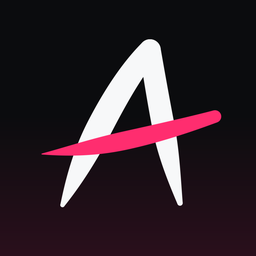
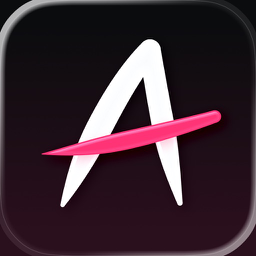
After Stories is live; rename rankmaster _build to build
- After Stories launched on the App Store (id 6815212070). Set appStoreId
  and appStoreUrl, remove comingSoon, swap the placeholder icon for the
  App Store icon, and update the /apps/ FAQ count to 15.
- content/rankmaster/*.md used the `_build` front matter key, which Hugo
  0.145 removed, so newer Hugo failed the build. `build` works since Hugo
  0.123, so the CI version (0.124.1) is fine too.

Closes #48

Claude-Session: https://claude.ai/code/session_01Uq2dFLJz3DEvc1WMaZWf9i

diff --git a/content/apps/_index.md b/content/apps/_index.md
@@ -5,7 +5,7 @@ date: 2026-10-09T00:00:00+02:00
 draft: false
 faq:
   - question: "What does 12F ApS do?"
-    answer: "12F ApS is an independent Danish digital studio (CVR 45362957) that designs and ships focused iOS apps. It currently has 14 apps live on the App Store, covering renovation planning, travel, pet care, fitness tracking, trade photo reports, finance and education."
+    answer: "12F ApS is an independent Danish digital studio (CVR 45362957) that designs and ships focused iOS apps. It currently has 15 apps live on the App Store, covering renovation planning, group event planning, travel, pet care, fitness tracking, trade photo reports, finance and education."
   - question: "Who is behind 12F ApS?"
     answer: "12F ApS is run by Robert Jensen, an independent developer based in Denmark. Every app is designed, built and supported in-house, and you can reach him directly at robert@12f.dk."
   - question: "Are 12F apps privacy-first?"

diff --git a/content/rankmaster/privacy-policy.md b/content/rankmaster/privacy-policy.md
@@ -7,7 +7,7 @@ redirect: "https://rankmaster.12f.dk/privacy-policy.html"
 # Policy URL here and cannot be repointed yet (12fdk/rankmaster-ios#207). A
 # privacy URL that 404s is an App Store compliance problem, not just a broken
 # link, so this stub has to outlive the release that finally changes it.
-_build:
+build:
   list: never
   render: always
 ---

diff --git a/content/rankmaster/support.md b/content/rankmaster/support.md
@@ -8,7 +8,7 @@ redirect: "https://rankmaster.12f.dk/support.html"
 # App Store Connect refuses the field outright (12fdk/rankmaster-ios#207).
 # Until a version ships carrying the new URL, this stub is what keeps the
 # store's support link working.
-_build:
+build:
   list: never
   render: always
 ---

diff --git a/content/rankmaster/_index.md b/content/rankmaster/_index.md
@@ -5,7 +5,7 @@ layout: redirect
 redirect: "https://rankmaster.12f.dk/"
 # Kept out of listings and the sitemap: this is a signpost, not a page. The URL
 # itself has to stay — see the note in support.md.
-_build:
+build:
   list: never
   render: always
 ---
